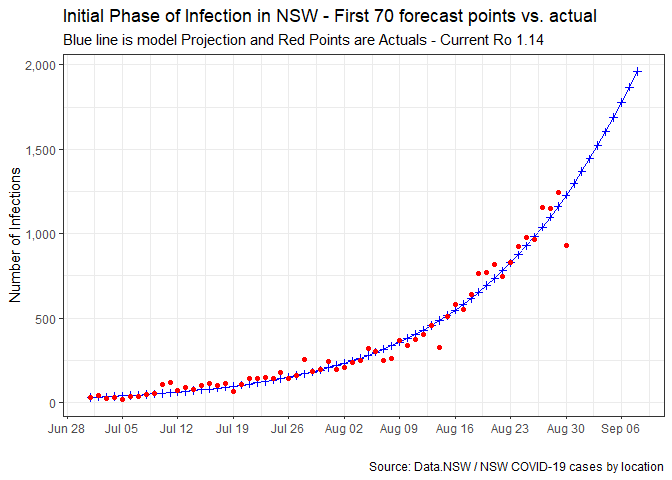
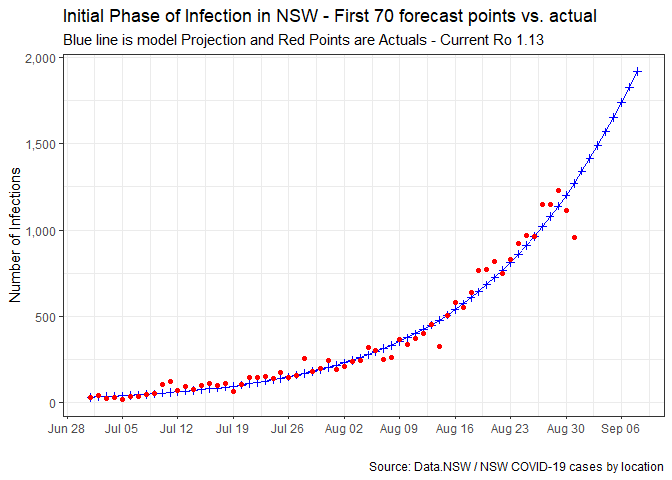
spelling correction

diff --git a/readme.html b/readme.html
@@ -176,7 +176,7 @@ pre code {
 <h3>Type of Model, Assumptions and Data used in projection</h3>
 <p><strong>Model used</strong></p>
 <ul>
-<li>The forecast model is based on the SIR Model for Spread of Disease and adoped from this blog post <a href="https://blog.ephorie.de/covid-19-the-case-of-germany" class="uri">https://blog.ephorie.de/covid-19-the-case-of-germany</a></li>
+<li>The forecast model is based on the SIR Model for Spread of Disease and adopted from this blog post <a href="https://blog.ephorie.de/covid-19-the-case-of-germany" class="uri">https://blog.ephorie.de/covid-19-the-case-of-germany</a></li>
 </ul>
 <p><strong>Key Assumptions</strong></p>
 <ul>
@@ -206,8 +206,8 @@ pre code {
 </ul>
 <div id="lets-view-the-projection-for-the-first-70-days" class="section level4">
 <h4>Lets view the projection for the first 70 days:</h4>
-<pre><code>## Warning: Removed 9 rows containing missing values (geom_point).</code></pre>
[1 lines of base64/hex data omitted]
+<pre><code>## Warning: Removed 8 rows containing missing values (geom_point).</code></pre>
[1 lines of base64/hex data omitted]
 <ul>
 <li>As you can see actuals line-up nicely with the model. It makes one wonder how much of an impact targetted lockdowns have had in stopping th delta variant.</li>
 <li>Current Ro is at 1.14<br />
@@ -217,8 +217,8 @@ pre code {
 </div>
 <div id="next-lets-view-the-potential-full-trajectory-of-the-current-outbreak" class="section level4">
 <h4>Next lets view the potential full trajectory of the current outbreak</h4>
-<pre><code>## Warning: Removed 139 rows containing missing values (geom_point).</code></pre>
[1 lines of base64/hex data omitted]
+<pre><code>## Warning: Removed 138 rows containing missing values (geom_point).</code></pre>
[1 lines of base64/hex data omitted]
 <ul>
 <li>Despite our optimistic assumptions, the model shows us that there is a potentially frightening few months ahead for NSW.<br />
 </li>

diff --git a/readme.md b/readme.md
@@ -15,7 +15,7 @@ output:
 
 __Model used__
 
--   The forecast model is based on the SIR Model for Spread of Disease and adoped from this blog post <https://blog.ephorie.de/covid-19-the-case-of-germany>     
+-   The forecast model is based on the SIR Model for Spread of Disease and adopted from this blog post <https://blog.ephorie.de/covid-19-the-case-of-germany>     
 
 
 __Key Assumptions__
@@ -51,7 +51,7 @@ __Data source & things to keep in mind__
 #### Lets view the projection for the first 70 days:
 
 ```
-## Warning: Removed 9 rows containing missing values (geom_point).
+## Warning: Removed 8 rows containing missing values (geom_point).
 ```
 
 ![](readme_files/figure-html/unnamed-chunk-2-1.png)<!-- -->
@@ -65,7 +65,7 @@ __Data source & things to keep in mind__
 #### Next lets view the potential full trajectory of the current outbreak 
 
 ```
-## Warning: Removed 139 rows containing missing values (geom_point).
+## Warning: Removed 138 rows containing missing values (geom_point).
 ```
 
 ![](readme_files/figure-html/unnamed-chunk-3-1.png)<!-- -->
